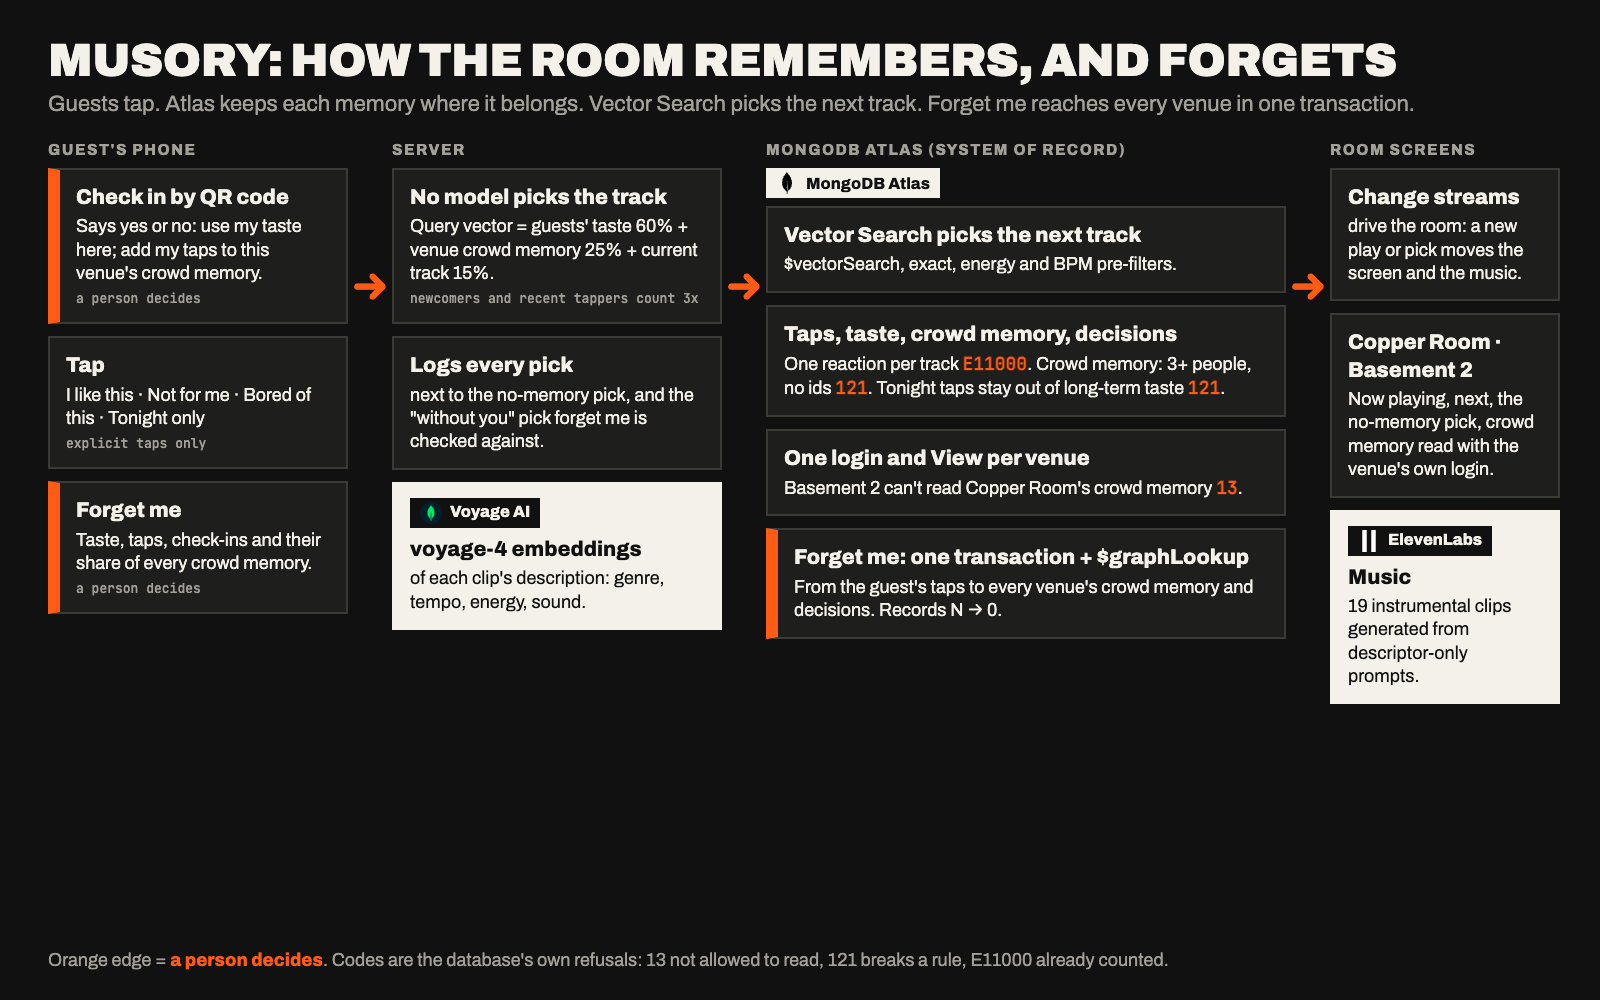
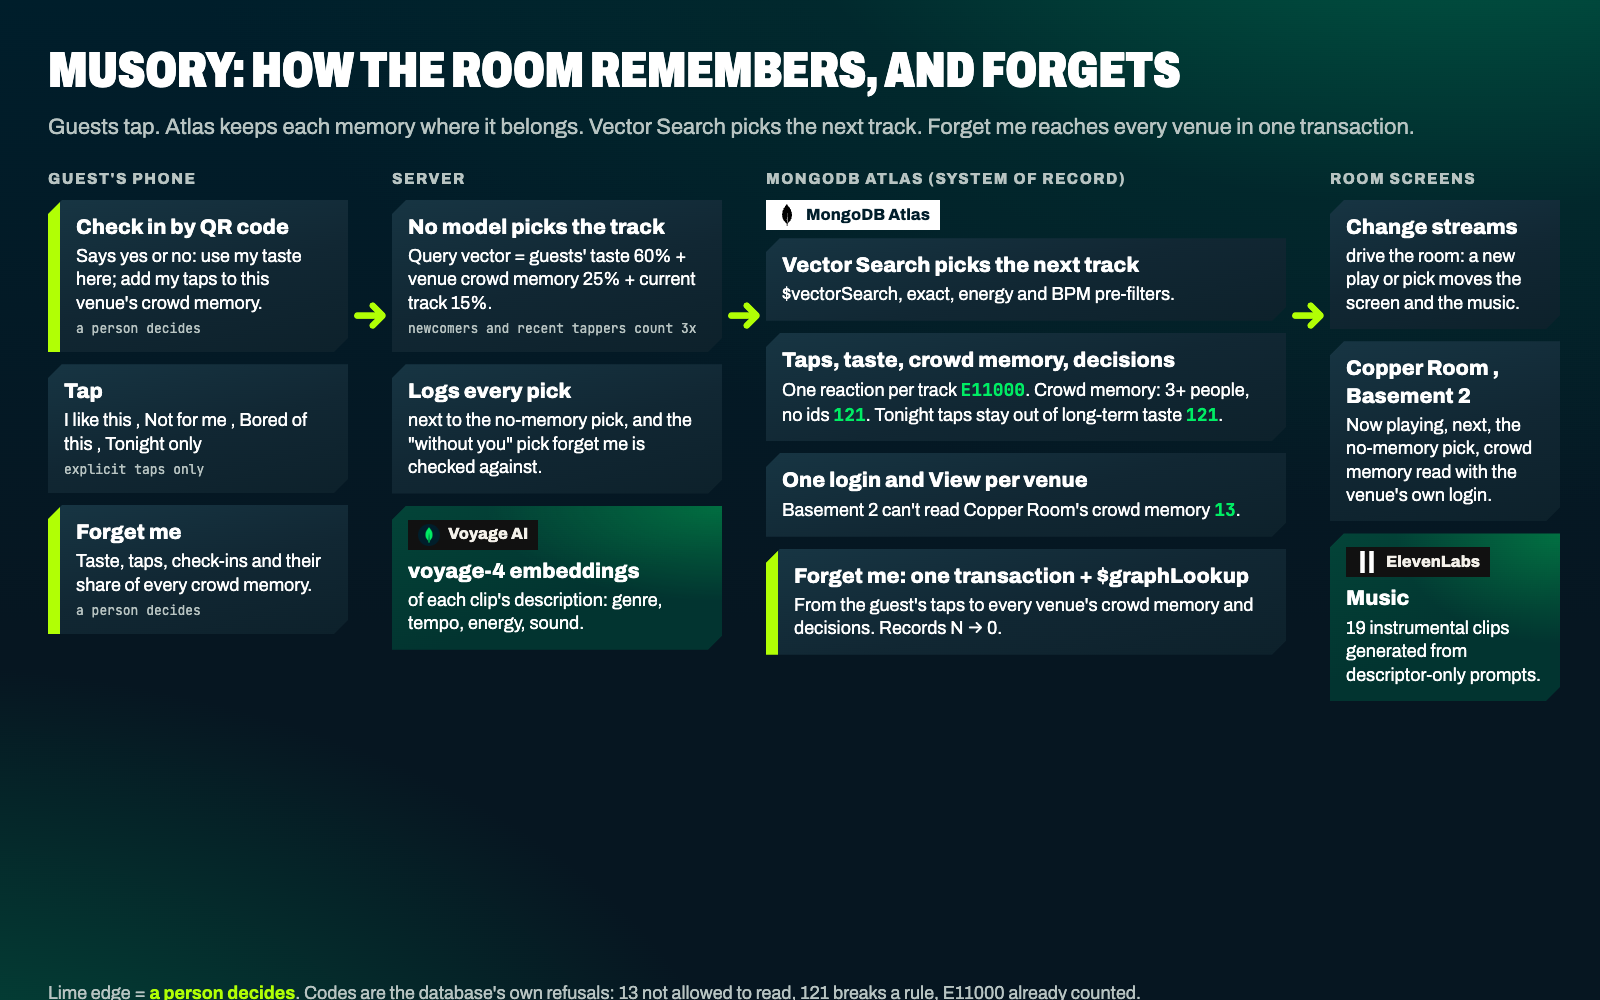
Stage screen: a big simulated-guests button and a small reset; diagram in the Evergreen look

diff --git a/public/stage.html b/public/stage.html
@@ -28,8 +28,11 @@
   .receipt h1 { font-size: 12vh; max-width: 16ch; }
   .receipt .figure { font-size: 30vh; justify-self: start; }
   .receipt p { font-weight: 800; font-size: 4.4vh; max-width: 30ch; line-height: 1.15; }
-  .sim { position: fixed; right: 2vh; bottom: 2vh; z-index: 20; }
-  .sim .btn { min-height: 36px; font-size: 14px; padding: 0 14px; background: var(--surface); color: var(--text); }
+  .sim { position: fixed; right: 3vh; top: 3vh; z-index: 20; display: flex; gap: 10px; align-items: center; }
+  .sim .btn.go { min-height: 64px; font-size: 22px; padding: 0 28px; }
+  .sim .reset { min-height: 30px; font-size: 12px; padding: 0 10px; opacity: .55; }
+  .sim .reset:hover, .sim .reset:focus-visible { opacity: 1; }
+  .right .top { padding-right: 330px; }
 </style>
 </head>
 <body>
@@ -46,7 +49,7 @@
   <div class="ticker" aria-hidden="true"><span id="ticker"></span></div>
 </main>
 <section class="flood receipt hidden" id="receipt" data-testid="stage-receipt"></section>
-<div class="sim controls"><button id="simulate" class="btn">Simulated guests</button></div>
+<div class="sim controls"><button id="reset" class="btn reset" title="Reset both rooms">Reset</button><button id="simulate" class="btn forget go">Simulated guests: 5 tap a new sound</button></div>
 <script type="module">
 import { api, events, $, genreName } from "/js/common.js";
 import { params, busy, settle, film } from "/js/look.js";
@@ -74,7 +77,12 @@ async function load() {
   next = s.next?.picked || null;
   showPlay(s.play);
 }
-$("simulate").onclick = () => api("/api/stage/simulate", { venueId: venue }).catch(() => {});
+$("simulate").onclick = async () => {
+  $("simulate").disabled = true;
+  try { await api("/api/stage/simulate", { venueId: venue }); } catch { /* the room shows what happened */ }
+  setTimeout(() => ($("simulate").disabled = false), 1500);
+};
+$("reset").onclick = () => { if (confirm("Reset both rooms? Every guest and tap is cleared.")) api("/api/reset", {}).catch(() => {}); };
 events({
   play: (e) => { if (e.venueId === venue) showPlay(e.play); },
   next: (e) => { if (e.venueId === venue) { next = e.decision?.picked || null; ticker(); settle(); } },

diff --git a/docs/architecture.html b/docs/architecture.html
@@ -1,8 +1,8 @@
-<!doctype html><html><head><meta charset="utf-8">
+<!doctype html><html data-look="evergreen"><head><meta charset="utf-8">
 <link rel="stylesheet" href="../public/css/musory.css">
 <style>
 :root{--ink:#001E2B;--slab:#112733;--line:#1C2D38;--paper:#FFFFFF;--mute:#B8C4C2;--band:#B1FF05}
-body{margin:0;width:1600px;height:1000px;background:#061621;background-image:radial-gradient(110% 85% at 92% -14%,rgba(0,104,74,.9) 0%,rgba(2,52,48,.5) 40%,rgba(6,22,33,0) 74%),radial-gradient(85% 75% at -8% 112%,rgba(0,104,74,.7) 0%,rgba(6,22,33,0) 64%),linear-gradient(180deg,#001E2B 0%,#061621 60%);color:var(--paper);font-family:Archivo,system-ui,sans-serif;overflow:hidden;position:relative}
+body{margin:0;width:1600px;height:1000px;background-color:#061621;background-attachment:scroll;background-image:radial-gradient(110% 85% at 92% -14%,rgba(0,104,74,.9) 0%,rgba(2,52,48,.5) 40%,rgba(6,22,33,0) 74%),radial-gradient(85% 75% at -8% 112%,rgba(0,104,74,.7) 0%,rgba(6,22,33,0) 64%),linear-gradient(180deg,#001E2B 0%,#061621 60%);color:var(--paper);font-family:Archivo,system-ui,sans-serif;overflow:hidden;position:relative}
 h1{font-size:50px;font-weight:900;font-stretch:75%;text-transform:uppercase;margin:36px 48px 6px;letter-spacing:-.01em}
 p.sub{font-size:22px;margin:0 48px 26px;color:var(--mute)}
 .row{display:grid;grid-template-columns:300px 44px 330px 44px 520px 44px 230px;margin:0 48px;align-items:start}
@@ -49,5 +49,5 @@ p.sub{font-size:22px;margin:0 48px 26px;color:var(--mute)}
   <div class="box paper"><span class="logo" style="background:#111;color:#f4f1ea"><img src="logos/elevenlabs.svg" style="filter:invert(1)">ElevenLabs</span><b>Music</b>19 instrumental clips generated from descriptor-only prompts.</div>
  </div>
 </div>
-<div class="foot">Orange edge = <b>a person decides</b>. Codes are the database's own refusals: 13 not allowed to read, 121 breaks a rule, E11000 already counted.</div>
+<div class="foot">Lime edge = <b>a person decides</b>. Codes are the database's own refusals: 13 not allowed to read, 121 breaks a rule, E11000 already counted.</div>
 </body></html>
